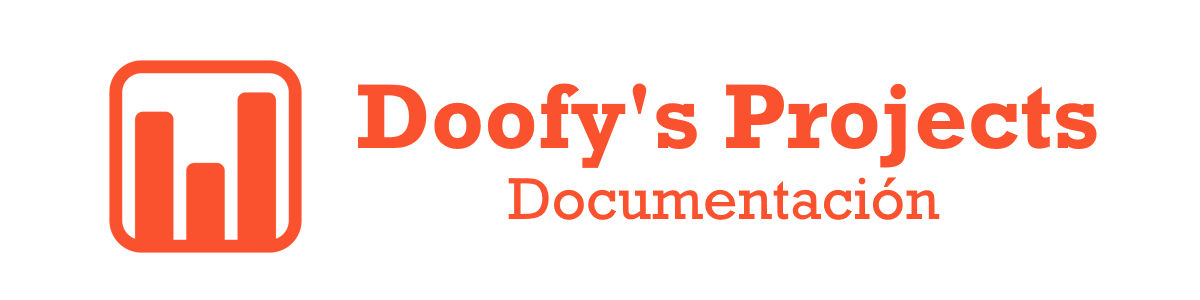
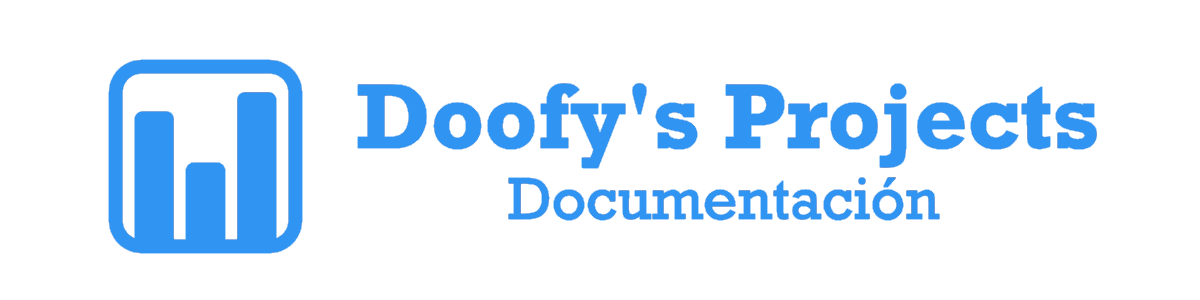
Actualización de colores

Changed region(s): [[0.0925, 0.18, 0.925, 0.87], [0.4008, 0.57, 0.8017, 0.75]]

diff --git a/docs/.vitepress/theme/styles/custom.css b/docs/.vitepress/theme/styles/custom.css
@@ -4,10 +4,10 @@
   --vp-c-gray-3: #ebebef;
   --vp-c-gray-soft: rgba(142, 150, 170, 0.14);
 
-  --vp-c-indigo-1: #fe613e;
-  --vp-c-indigo-2: #9f351d;
-  --vp-c-indigo-3: #fe481f;
-  --vp-c-indigo-soft: #ff654229;
+  --vp-c-indigo-1: #2575c0;
+  --vp-c-indigo-2: #2f81ce;
+  --vp-c-indigo-3: #3094f2;
+  --vp-c-indigo-soft: #7abfff5d;
 
   --vp-c-purple-1: #6f42c1;
   --vp-c-purple-2: #7e4cc9;
@@ -38,10 +38,10 @@
   --vp-c-gray-3: #32363f;
   --vp-c-gray-soft: rgba(101, 117, 133, 0.16);
 
-  --vp-c-indigo-1: #fe8165;
-  --vp-c-indigo-2: #b7442a;
-  --vp-c-indigo-3: #fa522e;
-  --vp-c-indigo-soft: #fe816529;
+  --vp-c-indigo-1: #2575c0;
+  --vp-c-indigo-2: #2f81ce;
+  --vp-c-indigo-3: #3094f2;
+  --vp-c-indigo-soft: #7abfff5d;
 
   --vp-c-purple-1: #c8abfa;
   --vp-c-purple-2: #a879e6;
@@ -121,8 +121,8 @@
   --vp-home-hero-name-color: transparent;
   --vp-home-hero-name-background: -webkit-linear-gradient(
     120deg,
-    #ff5732 30%,
-    #fa522e
+    #3094f2 30%,
+    #1e8df5
   );
 
 }

diff --git a/docs/.vitepress/config/metaSocials.ts b/docs/.vitepress/config/metaSocials.ts
@@ -1,6 +1,6 @@
 export function metadata() {
     return [
-      ["meta", { property: "theme-color", content: "#fa522e" }],
+      ["meta", { property: "theme-color", content: "#3094f2" }],
       [
         "meta",
         {
